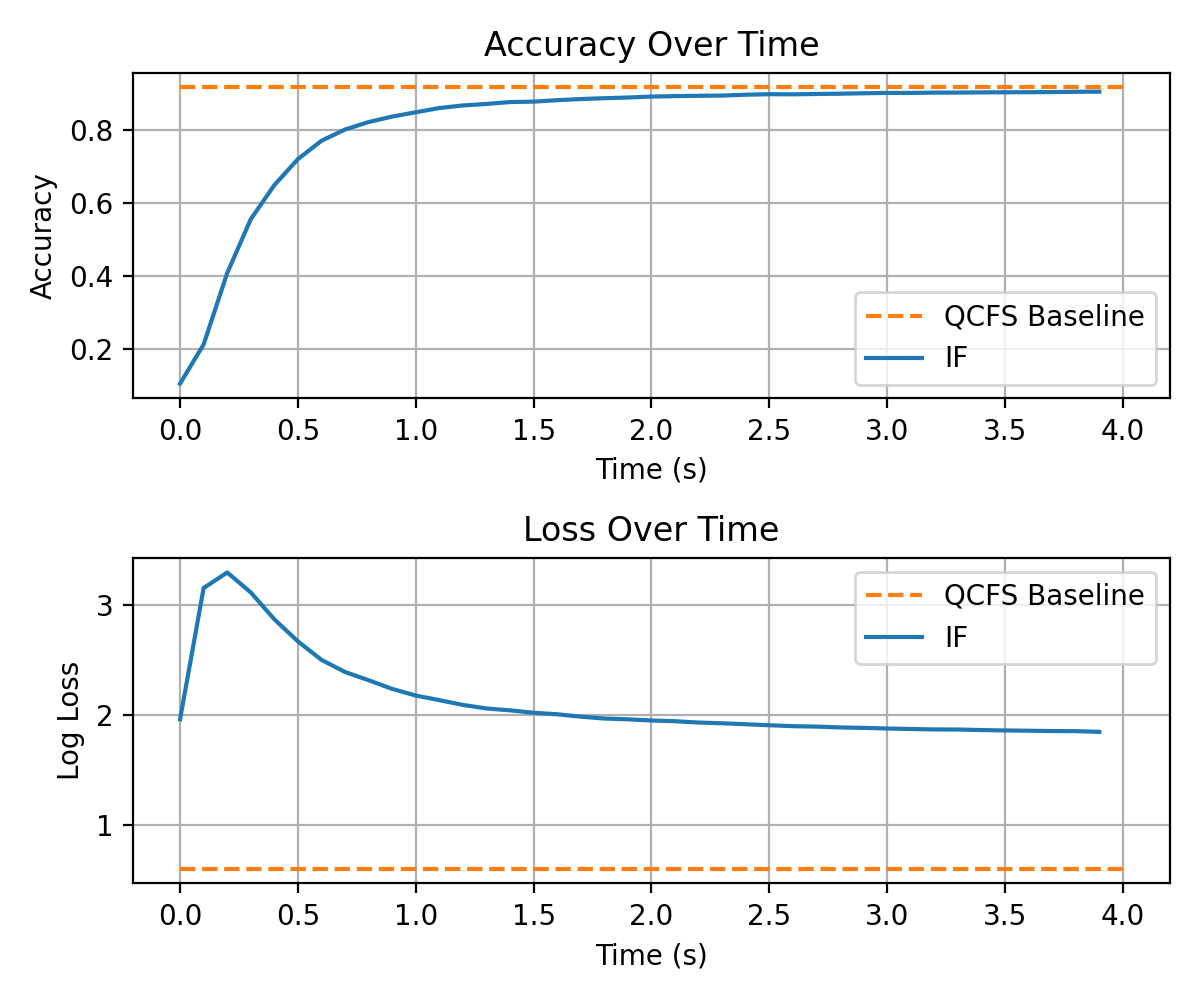
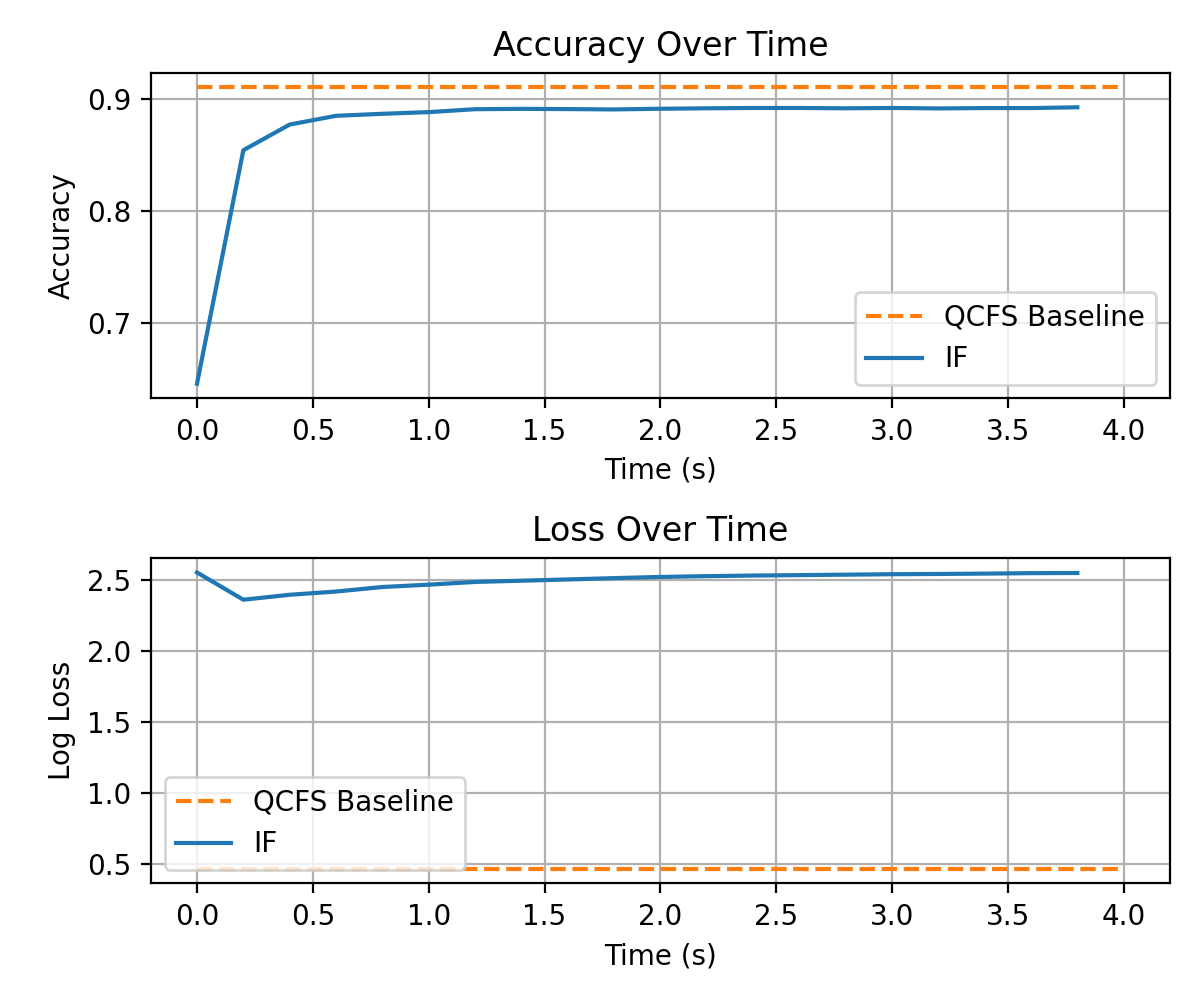
Fixed implementation of QCFS

diff --git a/examples/training.py b/examples/training.py
@@ -36,7 +36,7 @@ def train_ann(
     epochs=40,
     device=None,
     save_path="tmp/model.pth",
-    b_plot_result=True,
+    b_plot_result=False,
     initial_lr=0.01,
 ) -> nn.Module:
     best_accuracy = 0
@@ -50,20 +50,20 @@ def train_ann(
     pbar = trange(1, epochs+1)
     for epoch in pbar:
         train(model, device, train_loader, loss_fn, optimizer)
-        loss, acc = test_ann(model, device, test_loader, loss_fn)
+        test_loss, test_acc = test_ann(model, device, test_loader, loss_fn)
         scheduler.step()
 
-        history_loss.append(loss)
-        history_acc.append(acc)
+        history_loss.append(test_loss)
+        history_acc.append(test_acc)
         history_lr.append(scheduler.get_last_lr())
 
         # Save the model if it's the best so far
-        if acc > best_accuracy:
-            best_accuracy = acc
+        if test_acc > best_accuracy:
+            best_accuracy = test_acc
             torch.save(model.state_dict(), save_path)
 
         #print(f"Epoch {epoch}/{epochs}, Loss: {loss:.4f}, Accuracy: {acc*100:.4f}%")
-        pbar.set_description(f"Loss: {loss:.3f}, Accuracy: {best_accuracy*100:.2f}%")
+        pbar.set_description(f"Loss: {test_loss:.3f}, Accuracy: {best_accuracy*100:.2f}%")
     
     if b_plot_result:
         import matplotlib.pyplot as plt

diff --git a/spieks/ann/neurons.py b/spieks/ann/neurons.py
@@ -6,15 +6,17 @@ class QCFS(nn.Module):
     def __init__(self, Q: int):
         super().__init__()
         self.Q = Q
+        self.v_th = nn.Parameter(torch.tensor(Q), requires_grad=True)
+        self.p0 = torch.tensor(0.5)
 
     @staticmethod
     def floor_ste(x):
         return (x.floor() - x).detach() + x
 
     def extra_repr(self):
-        return f"Q={self.Q}"
+        return f"Q={self.Q}, p0={self.p0.item()}, v_th={self.v_threshold.item()}"
 
     def forward(self, x):
-        y = self.floor_ste(x * self.Q + 0.5)
+        y = self.floor_ste(x * self.Q / self.v_th + self.p0)
         y = torch.clamp(y, 0, self.Q)
-        return y / self.Q
+        return y * self.v_th / self.Q
